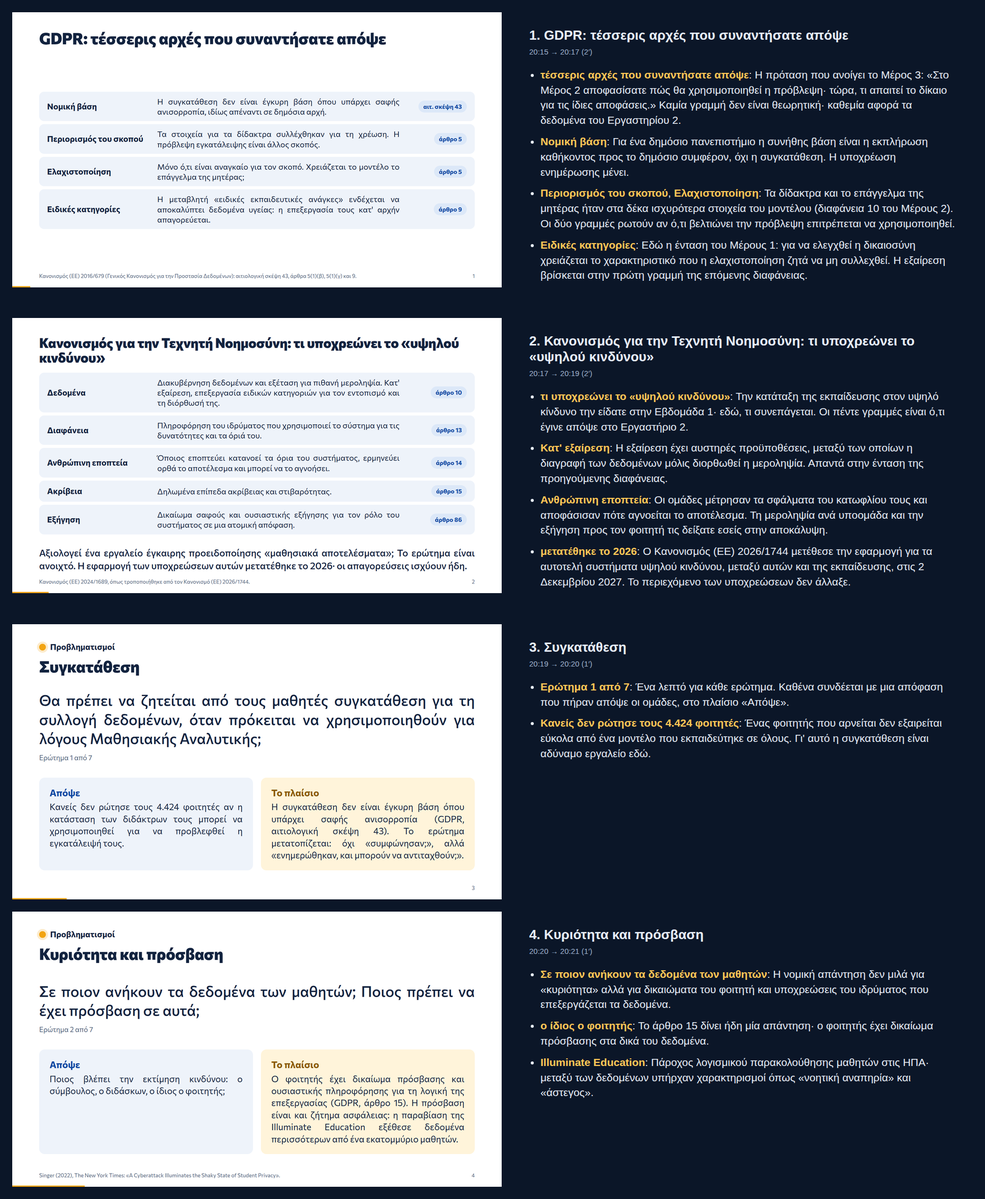
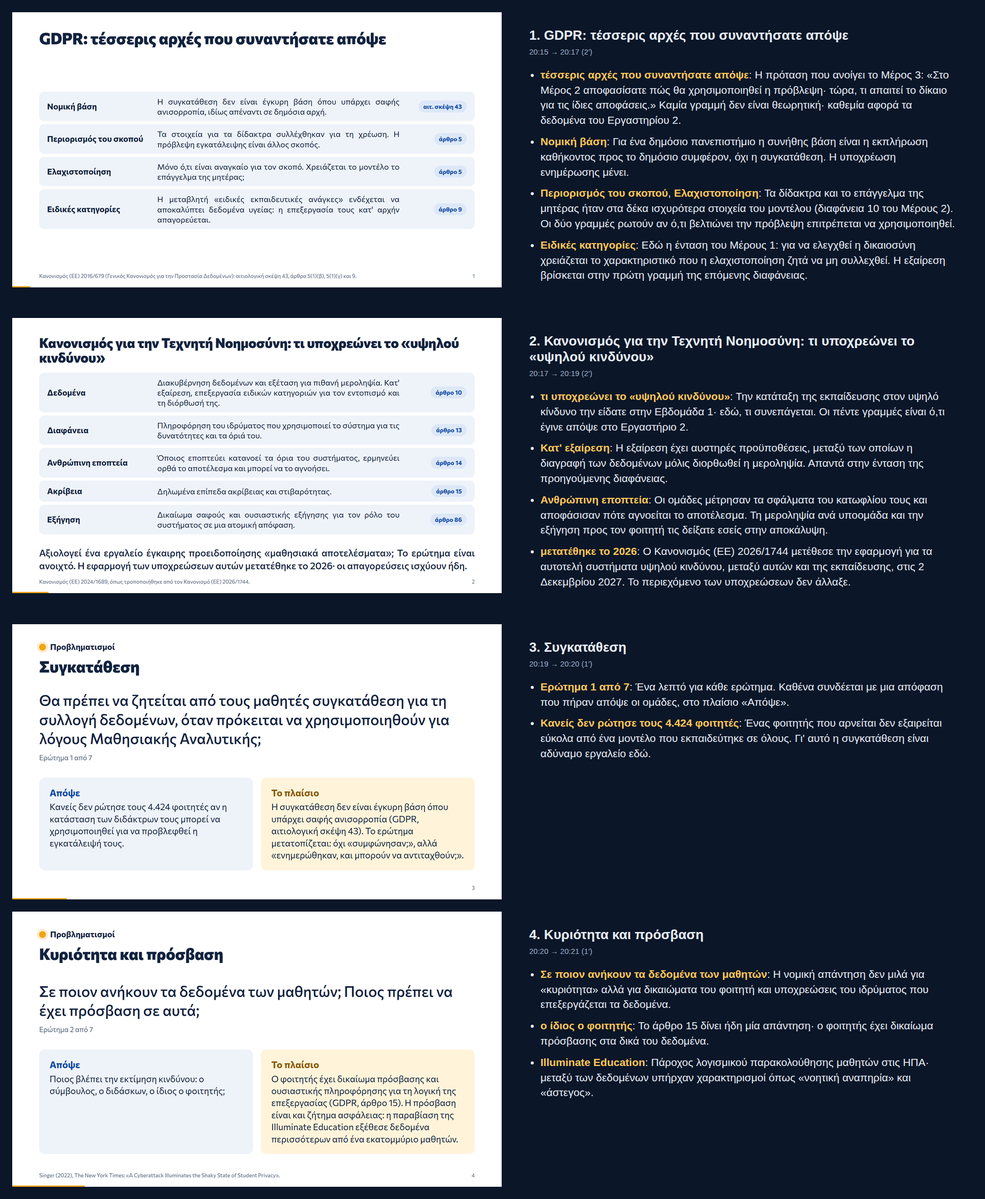
W3P3: ethics slides 3, 4, 7, 8 left-aligned (opt-in 'ragged', set by title in w3p2/make_deck_json.py)
Their justified short lines opened gaps of 1,5-2,7 em.

Claude-Session: https://claude.ai/code/session_01MhLFYHdNRLpSBsLtxiJZNA

diff --git a/build_kit/out/W3P3.html b/build_kit/out/W3P3.html
@@ -463,6 +463,8 @@ code{font-family:ui-monospace,Menlo,Consolas,monospace;background:var(--mist);pa
 .shlx.n2sql{background:var(--amber-bg);color:var(--ink);box-shadow:inset 0 0 0 2px #EBD29B}
 .shl.n2side .shlc{grid-template-columns:minmax(0,1fr) minmax(0,1fr);align-items:start;column-gap:26px}
 .n2a{color:var(--deep);text-decoration:underline;text-decoration-thickness:2px;text-underline-offset:3px;font-weight:700}
+/* opt-in per slide (slide.ragged = true): left-aligned text where justified lines would open wide gaps (short lines) */
+.slide.ragged :is(.defq,.callout p,.grp ul.plain li,.dfoot,.points li,.vnote,.context,.cc li,.lesson,.claim,.keyline,.numlist li span,.teaser p,.footline,.caption,.trt,.statement.wide,.gnote,.asteps p){text-align:left}
 </style></head><body>
 <svg width="0" height="0" style="position:absolute" aria-hidden="true"><defs><marker id="ah" markerUnits="userSpaceOnUse" markerWidth="26" markerHeight="26" refX="22" refY="13" orient="auto"><path d="M0,0 L26,13 L0,26 z" fill="#0D47A1"/></marker><marker id="ahr" markerUnits="userSpaceOnUse" markerWidth="26" markerHeight="26" refX="22" refY="13" orient="auto"><path d="M0,0 L26,13 L0,26 z" fill="#C2362F"/></marker><marker id="ahg" markerUnits="userSpaceOnUse" markerWidth="26" markerHeight="26" refX="22" refY="13" orient="auto"><path d="M0,0 L26,13 L0,26 z" fill="#C9D4E3"/></marker></defs></svg>
 <div id="viewport"><div id="stage">
@@ -470,17 +472,17 @@ code{font-family:ui-monospace,Menlo,Consolas,monospace;background:var(--mist);pa
 <footer class="foot"><p class="src">Κανονισμός (ΕΕ) 2016/679 (Γενικός Κανονισμός για την Προστασία Δεδομένων): αιτιολογική σκέψη 43, άρθρα 5(1)(β), 5(1)(γ) και 9.</p><span class="pn">1</span></footer></section>
 <section class="slide t-table " data-i="1" aria-label="Διαφάνεια 2 από 27"><header class="head"><h2 class="long">Κανονισμός για την Τεχνητή Νοημοσύνη: τι υποχρεώνει το «υψηλού κινδύνου»</h2></header><div class="body "><div class="trows tagged compact"><div class="trow"><span class="trh">Δεδομένα</span><span class="trt">Διακυβέρνηση δεδομένων και εξέταση για πιθανή μεροληψία. Κατ' εξαίρεση, επεξεργασία ειδικών κατηγοριών για τον εντοπισμό και τη διόρθωσή της.</span><span class="ttag ">άρθρο 10</span></div><div class="trow"><span class="trh">Διαφάνεια</span><span class="trt">Πληροφόρηση του ιδρύματος που χρησιμοποιεί το σύστημα για τις δυνατότητες και τα όριά του.</span><span class="ttag ">άρθρο 13</span></div><div class="trow"><span class="trh">Ανθρώπινη εποπτεία</span><span class="trt">Όποιος εποπτεύει κατανοεί τα όρια του συστήματος, ερμηνεύει ορθά το αποτέλεσμα και μπορεί να το αγνοήσει.</span><span class="ttag ">άρθρο 14</span></div><div class="trow"><span class="trh">Ακρίβεια</span><span class="trt">Δηλωμένα επίπεδα ακρίβειας και στιβαρότητας.</span><span class="ttag ">άρθρο 15</span></div><div class="trow"><span class="trh">Εξήγηση</span><span class="trt">Δικαίωμα σαφούς και ουσιαστικής εξήγησης για τον ρόλο του συστήματος σε μια ατομική απόφαση.</span><span class="ttag ">άρθρο 86</span></div></div><p class="footline">Αξιολογεί ένα εργαλείο έγκαιρης προειδοποίησης «μαθησιακά αποτελέσματα»; Το ερώτημα είναι ανοιχτό. Η εφαρμογή των υποχρεώσεων αυτών μετατέθηκε το 2026· οι απαγορεύσεις ισχύουν ήδη.</p></div>
 <footer class="foot"><p class="src">Κανονισμός (ΕΕ) 2024/1689, όπως τροποποιήθηκε από τον Κανονισμό (ΕΕ) 2026/1744.</p><span class="pn">2</span></footer></section>
-<section class="slide t-definition " data-i="2" aria-label="Διαφάνεια 3 από 27"><header class="head"><p class="kicker"><span class="lamp lamp-amber" aria-hidden="true"></span>Προβληματισμοί</p><h2 class="">Συγκατάθεση</h2></header><div class="body "><blockquote class="defq">Θα πρέπει να ζητείται από τους μαθητές συγκατάθεση για τη συλλογή δεδομένων, όταν πρόκειται να χρησιμοποιηθούν για λόγους Μαθησιακής Αναλυτικής;<cite>Ερώτημα 1 από 7</cite></blockquote><div class="callouts"><div class="callout c-blue"><h3>Απόψε</h3><p>Κανείς δεν ρώτησε τους 4.424 φοιτητές αν η κατάσταση των διδάκτρων τους μπορεί να χρησιμοποιηθεί για να προβλεφθεί η εγκατάλειψή τους.</p></div><div class="callout c-amber"><h3>Το πλαίσιο</h3><p>Η συγκατάθεση δεν είναι έγκυρη βάση όπου υπάρχει σαφής ανισορροπία (GDPR, αιτιολογική σκέψη 43). Το ερώτημα μετατοπίζεται: όχι «συμφώνησαν;», αλλά «ενημερώθηκαν, και μπορούν να αντιταχθούν;».</p></div></div></div>
+<section class="slide t-definition  ragged" data-i="2" aria-label="Διαφάνεια 3 από 27"><header class="head"><p class="kicker"><span class="lamp lamp-amber" aria-hidden="true"></span>Προβληματισμοί</p><h2 class="">Συγκατάθεση</h2></header><div class="body "><blockquote class="defq">Θα πρέπει να ζητείται από τους μαθητές συγκατάθεση για τη συλλογή δεδομένων, όταν πρόκειται να χρησιμοποιηθούν για λόγους Μαθησιακής Αναλυτικής;<cite>Ερώτημα 1 από 7</cite></blockquote><div class="callouts"><div class="callout c-blue"><h3>Απόψε</h3><p>Κανείς δεν ρώτησε τους 4.424 φοιτητές αν η κατάσταση των διδάκτρων τους μπορεί να χρησιμοποιηθεί για να προβλεφθεί η εγκατάλειψή τους.</p></div><div class="callout c-amber"><h3>Το πλαίσιο</h3><p>Η συγκατάθεση δεν είναι έγκυρη βάση όπου υπάρχει σαφής ανισορροπία (GDPR, αιτιολογική σκέψη 43). Το ερώτημα μετατοπίζεται: όχι «συμφώνησαν;», αλλά «ενημερώθηκαν, και μπορούν να αντιταχθούν;».</p></div></div></div>
 <footer class="foot"><p class="src"></p><span class="pn">3</span></footer></section>
-<section class="slide t-definition " data-i="3" aria-label="Διαφάνεια 4 από 27"><header class="head"><p class="kicker"><span class="lamp lamp-amber" aria-hidden="true"></span>Προβληματισμοί</p><h2 class="">Κυριότητα και πρόσβαση</h2></header><div class="body "><blockquote class="defq">Σε ποιον ανήκουν τα δεδομένα των μαθητών; Ποιος πρέπει να έχει πρόσβαση σε αυτά;<cite>Ερώτημα 2 από 7</cite></blockquote><div class="callouts"><div class="callout c-blue"><h3>Απόψε</h3><p>Ποιος βλέπει την εκτίμηση κινδύνου: ο σύμβουλος, ο διδάσκων, ο ίδιος ο φοιτητής;</p></div><div class="callout c-amber"><h3>Το πλαίσιο</h3><p>Ο φοιτητής έχει δικαίωμα πρόσβασης και ουσιαστικής πληροφόρησης για τη λογική της επεξεργασίας (GDPR, άρθρο 15). Η πρόσβαση είναι και ζήτημα ασφάλειας: η παραβίαση της Illuminate Education εξέθεσε δεδομένα περισσότερων από ένα εκατομμύριο μαθητών.</p></div></div></div>
+<section class="slide t-definition  ragged" data-i="3" aria-label="Διαφάνεια 4 από 27"><header class="head"><p class="kicker"><span class="lamp lamp-amber" aria-hidden="true"></span>Προβληματισμοί</p><h2 class="">Κυριότητα και πρόσβαση</h2></header><div class="body "><blockquote class="defq">Σε ποιον ανήκουν τα δεδομένα των μαθητών; Ποιος πρέπει να έχει πρόσβαση σε αυτά;<cite>Ερώτημα 2 από 7</cite></blockquote><div class="callouts"><div class="callout c-blue"><h3>Απόψε</h3><p>Ποιος βλέπει την εκτίμηση κινδύνου: ο σύμβουλος, ο διδάσκων, ο ίδιος ο φοιτητής;</p></div><div class="callout c-amber"><h3>Το πλαίσιο</h3><p>Ο φοιτητής έχει δικαίωμα πρόσβασης και ουσιαστικής πληροφόρησης για τη λογική της επεξεργασίας (GDPR, άρθρο 15). Η πρόσβαση είναι και ζήτημα ασφάλειας: η παραβίαση της Illuminate Education εξέθεσε δεδομένα περισσότερων από ένα εκατομμύριο μαθητών.</p></div></div></div>
 <footer class="foot"><p class="src">Singer (2022), The New York Times: «A Cyberattack Illuminates the Shaky State of Student Privacy».</p><span class="pn">4</span></footer></section>
 <section class="slide t-definition " data-i="4" aria-label="Διαφάνεια 5 από 27"><header class="head"><p class="kicker"><span class="lamp lamp-amber" aria-hidden="true"></span>Προβληματισμοί</p><h2 class="">Αξιοπιστία των αποτελεσμάτων</h2></header><div class="body "><blockquote class="defq">Πόσο μπορούμε να στηριχθούμε στα αποτελέσματα που λαμβάνουμε;<cite>Ερώτημα 3 από 7</cite></blockquote><div class="callouts"><div class="callout c-blue"><h3>Απόψε</h3><p>Με κατώφλι 0,4, περίπου μία στις πέντε επισημάνσεις είναι λανθασμένη. Και η έκβαση «παραμένει εγγεγραμμένος» (794 φοιτητές) δεν είναι ούτε επιτυχία ούτε εγκατάλειψη.</p></div><div class="callout c-amber"><h3>Το πλαίσιο</h3><p>Για τα συστήματα υψηλού κινδύνου τα επίπεδα ακρίβειας δηλώνονται (Κανονισμός για την ΤΝ, άρθρο 15). Η ειλικρινής απάντηση στο «πόσο;» είναι ένας πίνακας σφαλμάτων ανά υποομάδα.</p></div></div></div>
 <footer class="foot"><p class="src"></p><span class="pn">5</span></footer></section>
 <section class="slide t-definition " data-i="5" aria-label="Διαφάνεια 6 από 27"><header class="head"><p class="kicker"><span class="lamp lamp-amber" aria-hidden="true"></span>Προβληματισμοί</p><h2 class="">Παρερμηνεία</h2></header><div class="body "><blockquote class="defq">Τι μπορούμε να κάνουμε για να μειώσουμε την παρερμηνεία των δεδομένων;<cite>Ερώτημα 4 από 7</cite></blockquote><div class="callouts"><div class="callout c-blue"><h3>Απόψε</h3><p>Το μήνυμα προς τον φοιτητή, όπως το είδατε στο υπόδειγμα του Μέρους 2. Μια εκτίμηση 0,62 που διαβάζεται ως ετυμηγορία.</p></div><div class="callout c-amber"><h3>Το πλαίσιο</h3><p>Όποιος εποπτεύει το σύστημα πρέπει να είναι σε θέση να ερμηνεύει ορθά το αποτέλεσμά του (Κανονισμός για την ΤΝ, άρθρο 14). Για τους πίνακες πληροφοριών ισχύουν όσα είδατε στην Εβδομάδα 2.</p></div></div></div>
 <footer class="foot"><p class="src"></p><span class="pn">6</span></footer></section>
-<section class="slide t-definition " data-i="6" aria-label="Διαφάνεια 7 από 27"><header class="head"><p class="kicker"><span class="lamp lamp-amber" aria-hidden="true"></span>Προβληματισμοί</p><h2 class="">Ευθύνη να ενεργήσουμε</h2></header><div class="body "><blockquote class="defq">Αν τα στοιχεία μας λένε ότι ένας μαθητής είναι πιθανό να εγκαταλείψει το σχολείο, έχουμε την ευθύνη να κάνουμε κάτι γι' αυτό;<cite>Ερώτημα 5 από 7</cite></blockquote><div class="callouts"><div class="callout c-blue"><h3>Απόψε</h3><p>Γνωρίζατε για 270 φοιτητές σε κίνδυνο και μπορούσατε να δείτε 100. Η γνώση δημιουργεί υποχρέωση που η δυναμικότητα δεν μπορεί να τιμήσει.</p></div><div class="callout c-amber"><h3>Το πλαίσιο</h3><p>Στη βιβλιογραφία το ζήτημα έχει όνομα: «η υποχρέωση να ενεργήσουμε». Πριν συλλέξουμε, οφείλουμε να γνωρίζουμε τι θα κάνουμε με ό,τι μάθουμε.</p></div></div></div>
+<section class="slide t-definition  ragged" data-i="6" aria-label="Διαφάνεια 7 από 27"><header class="head"><p class="kicker"><span class="lamp lamp-amber" aria-hidden="true"></span>Προβληματισμοί</p><h2 class="">Ευθύνη να ενεργήσουμε</h2></header><div class="body "><blockquote class="defq">Αν τα στοιχεία μας λένε ότι ένας μαθητής είναι πιθανό να εγκαταλείψει το σχολείο, έχουμε την ευθύνη να κάνουμε κάτι γι' αυτό;<cite>Ερώτημα 5 από 7</cite></blockquote><div class="callouts"><div class="callout c-blue"><h3>Απόψε</h3><p>Γνωρίζατε για 270 φοιτητές σε κίνδυνο και μπορούσατε να δείτε 100. Η γνώση δημιουργεί υποχρέωση που η δυναμικότητα δεν μπορεί να τιμήσει.</p></div><div class="callout c-amber"><h3>Το πλαίσιο</h3><p>Στη βιβλιογραφία το ζήτημα έχει όνομα: «η υποχρέωση να ενεργήσουμε». Πριν συλλέξουμε, οφείλουμε να γνωρίζουμε τι θα κάνουμε με ό,τι μάθουμε.</p></div></div></div>
 <footer class="foot"><p class="src">Prinsloo &amp; Slade (2017), «An elephant in the learning analytics room: the obligation to act», LAK '17, 46–55.</p><span class="pn">7</span></footer></section>
-<section class="slide t-definition " data-i="7" aria-label="Διαφάνεια 8 από 27"><header class="head"><p class="kicker"><span class="lamp lamp-amber" aria-hidden="true"></span>Προβληματισμοί</p><h2 class="">Αυτονομία</h2></header><div class="body "><blockquote class="defq">Υπονομεύει η προγνωστική ανάλυση την αυτονομία των μαθητών στη λήψη αποφάσεων;<cite>Ερώτημα 6 από 7</cite></blockquote><div class="callouts"><div class="callout c-blue"><h3>Απόψε</h3><p>Η επισήμανση αλλάζει τη συμβουλή, και η συμβουλή την πορεία: η περίπτωση EAB του Μέρους 1.</p></div><div class="callout c-amber"><h3>Το πλαίσιο</h3><p>Δικαίωμα να μην υπόκειται κανείς σε απόφαση που βασίζεται αποκλειστικά σε αυτοματοποιημένη επεξεργασία και τον επηρεάζει σημαντικά (GDPR, άρθρο 22). Κατά το Δικαστήριο της ΕΕ (2023), και μια βαθμολογία είναι τέτοια απόφαση, όταν όποιος αποφασίζει στηρίζεται καθοριστικά σε αυτήν.</p></div></div></div>
+<section class="slide t-definition  ragged" data-i="7" aria-label="Διαφάνεια 8 από 27"><header class="head"><p class="kicker"><span class="lamp lamp-amber" aria-hidden="true"></span>Προβληματισμοί</p><h2 class="">Αυτονομία</h2></header><div class="body "><blockquote class="defq">Υπονομεύει η προγνωστική ανάλυση την αυτονομία των μαθητών στη λήψη αποφάσεων;<cite>Ερώτημα 6 από 7</cite></blockquote><div class="callouts"><div class="callout c-blue"><h3>Απόψε</h3><p>Η επισήμανση αλλάζει τη συμβουλή, και η συμβουλή την πορεία: η περίπτωση EAB του Μέρους 1.</p></div><div class="callout c-amber"><h3>Το πλαίσιο</h3><p>Δικαίωμα να μην υπόκειται κανείς σε απόφαση που βασίζεται αποκλειστικά σε αυτοματοποιημένη επεξεργασία και τον επηρεάζει σημαντικά (GDPR, άρθρο 22). Κατά το Δικαστήριο της ΕΕ (2023), και μια βαθμολογία είναι τέτοια απόφαση, όταν όποιος αποφασίζει στηρίζεται καθοριστικά σε αυτήν.</p></div></div></div>
 <footer class="foot"><p class="src">Δικαστήριο της Ευρωπαϊκής Ένωσης, υπόθεση C-634/21, SCHUFA Holding (2023).</p><span class="pn">8</span></footer></section>
 <section class="slide t-definition " data-i="8" aria-label="Διαφάνεια 9 από 27"><header class="head"><p class="kicker"><span class="lamp lamp-amber" aria-hidden="true"></span>Προβληματισμοί</p><h2 class="">Μεσολάβηση ανθρώπου</h2></header><div class="body "><blockquote class="defq">Θα πρέπει οι παρεμβάσεις να διενεργούνται πάντοτε με τη μεσολάβηση ανθρώπου;<cite>Ερώτημα 7 από 7</cite></blockquote><div class="callouts"><div class="callout c-blue"><h3>Απόψε</h3><p>Το ερώτημα που σας έστειλε εδώ το Μέρος 1. Ο σύμβουλος που επικυρώνει 270 επισημάνσεις σε μία ώρα αποτελεί «μεσολάβηση ανθρώπου»;</p></div><div class="callout c-amber"><h3>Το πλαίσιο</h3><p>Η ανθρώπινη εποπτεία είναι υποχρέωση για τα συστήματα υψηλού κινδύνου. Ο νόμος κατονομάζει τη μεροληψία αυτοματισμού: την τάση να εμπιστευόμαστε υπερβολικά το αποτέλεσμα (Κανονισμός για την ΤΝ, άρθρο 14).</p></div></div></div>
 <footer class="foot"><p class="src"></p><span class="pn">9</span></footer></section>
@@ -653,7 +655,8 @@ code{font-family:ui-monospace,Menlo,Consolas,monospace;background:var(--mist);pa
     var pd = pres.document;
     pd.getElementById('pv').onclick = function () { go(cur - 1); };
     pd.getElementById('nx').onclick = function () { go(cur + 1); };
-    pres.addEventListener('keydown', function (e) { if (e.key === 'ArrowRight' || e.key === ' ') go(cur + 1); if (e.key === 'ArrowLeft') go(cur - 1); });
+    pres.addEventListener('keydown', function (e) { if (e.key === 'ArrowRight' || e.key === ' ') go(cur + 1); if (e.key === 'ArrowLeft') go(cur - 1);
+      if (D.meta.notesMarkup && /^[tτ]$/i.test(e.key)) toggleTimer(); });  // opt-in: T also works from the notes window
     var ol = pd.getElementById('sheet');
     S.forEach(function (s, i) { var li = pd.createElement('li'); li.innerHTML = '<span class="t">' + hm(start + offs[i]) + '</span><span></span>'; li.lastChild.textContent = (i + 1) + '. ' + tt(s) + (s.skippable ? ' (παραλείπεται)' : ''); li.onclick = function () { go(i); }; ol.appendChild(li); });
     sync();

diff --git a/build_kit/out/W3P2.html b/build_kit/out/W3P2.html
@@ -463,6 +463,8 @@ code{font-family:ui-monospace,Menlo,Consolas,monospace;background:var(--mist);pa
 .shlx.n2sql{background:var(--amber-bg);color:var(--ink);box-shadow:inset 0 0 0 2px #EBD29B}
 .shl.n2side .shlc{grid-template-columns:minmax(0,1fr) minmax(0,1fr);align-items:start;column-gap:26px}
 .n2a{color:var(--deep);text-decoration:underline;text-decoration-thickness:2px;text-underline-offset:3px;font-weight:700}
+/* opt-in per slide (slide.ragged = true): left-aligned text where justified lines would open wide gaps (short lines) */
+.slide.ragged :is(.defq,.callout p,.grp ul.plain li,.dfoot,.points li,.vnote,.context,.cc li,.lesson,.claim,.keyline,.numlist li span,.teaser p,.footline,.caption,.trt,.statement.wide,.gnote,.asteps p){text-align:left}
 </style></head><body>
 <svg width="0" height="0" style="position:absolute" aria-hidden="true"><defs><marker id="ah" markerUnits="userSpaceOnUse" markerWidth="26" markerHeight="26" refX="22" refY="13" orient="auto"><path d="M0,0 L26,13 L0,26 z" fill="#0D47A1"/></marker><marker id="ahr" markerUnits="userSpaceOnUse" markerWidth="26" markerHeight="26" refX="22" refY="13" orient="auto"><path d="M0,0 L26,13 L0,26 z" fill="#C2362F"/></marker><marker id="ahg" markerUnits="userSpaceOnUse" markerWidth="26" markerHeight="26" refX="22" refY="13" orient="auto"><path d="M0,0 L26,13 L0,26 z" fill="#C9D4E3"/></marker></defs></svg>
 <div id="viewport"><div id="stage">
@@ -623,7 +625,8 @@ code{font-family:ui-monospace,Menlo,Consolas,monospace;background:var(--mist);pa
     var pd = pres.document;
     pd.getElementById('pv').onclick = function () { go(cur - 1); };
     pd.getElementById('nx').onclick = function () { go(cur + 1); };
-    pres.addEventListener('keydown', function (e) { if (e.key === 'ArrowRight' || e.key === ' ') go(cur + 1); if (e.key === 'ArrowLeft') go(cur - 1); });
+    pres.addEventListener('keydown', function (e) { if (e.key === 'ArrowRight' || e.key === ' ') go(cur + 1); if (e.key === 'ArrowLeft') go(cur - 1);
+      if (D.meta.notesMarkup && /^[tτ]$/i.test(e.key)) toggleTimer(); });  // opt-in: T also works from the notes window
     var ol = pd.getElementById('sheet');
     S.forEach(function (s, i) { var li = pd.createElement('li'); li.innerHTML = '<span class="t">' + hm(start + offs[i]) + '</span><span></span>'; li.lastChild.textContent = (i + 1) + '. ' + tt(s) + (s.skippable ? ' (παραλείπεται)' : ''); li.onclick = function () { go(i); }; ol.appendChild(li); });
     sync();

diff --git a/build_kit/w3p2/make_deck_json.py b/build_kit/w3p2/make_deck_json.py
@@ -188,6 +188,12 @@ S_ = [
             '**Στο Μέρος 3**: Ξεκινά με την ηθική και το δίκαιο, πάνω στις αποφάσεις του Εργαστηρίου 2. Οι φοιτητές δεν χρειάζονται κανένα αρχείο.']},
 ]
 ETHICS = S_[11:22]; assert ETHICS[0]['title'].startswith('GDPR') and ETHICS[-1]['type'] == 'remember' and len(ETHICS) == 11
+# left-aligned text where justified short lines open wide gaps (engine opt-in 'ragged', README v15)
+RAGGED = {'Συγκατάθεση', 'Αυτονομία', 'Ευθύνη να ενεργήσουμε', 'Κυριότητα και πρόσβαση'}
+for s in ETHICS:
+    if s['title'] in RAGGED:
+        s['ragged'] = True
+assert sum(1 for s in ETHICS if s.get('ragged')) == len(RAGGED)
 json.dump(ETHICS, open(os.path.join(HERE, '..', 'content', 'lab2_ethics.json'), 'w', encoding='utf8'), ensure_ascii=False, indent=1)   # rework of 20 Sept 2026: read by w3p3/make_deck_json.py
 S_ = S_[:11] + S_[22:]
 META = {'course': 'Βάσεις Δεδομένων & Ανάλυση Δεδομένων Μάθησης', 'deckTitle': 'Εργαστήριο 2: κατώφλι, δικαιοσύνη, παρέμβαση', 'part': 'Εβδομάδα 3, Μέρος 2', 'start': '19:15', 'lengthMin': 45, 'breakMin': 15, 'lang': 'el', 'notesMarkup': True}
